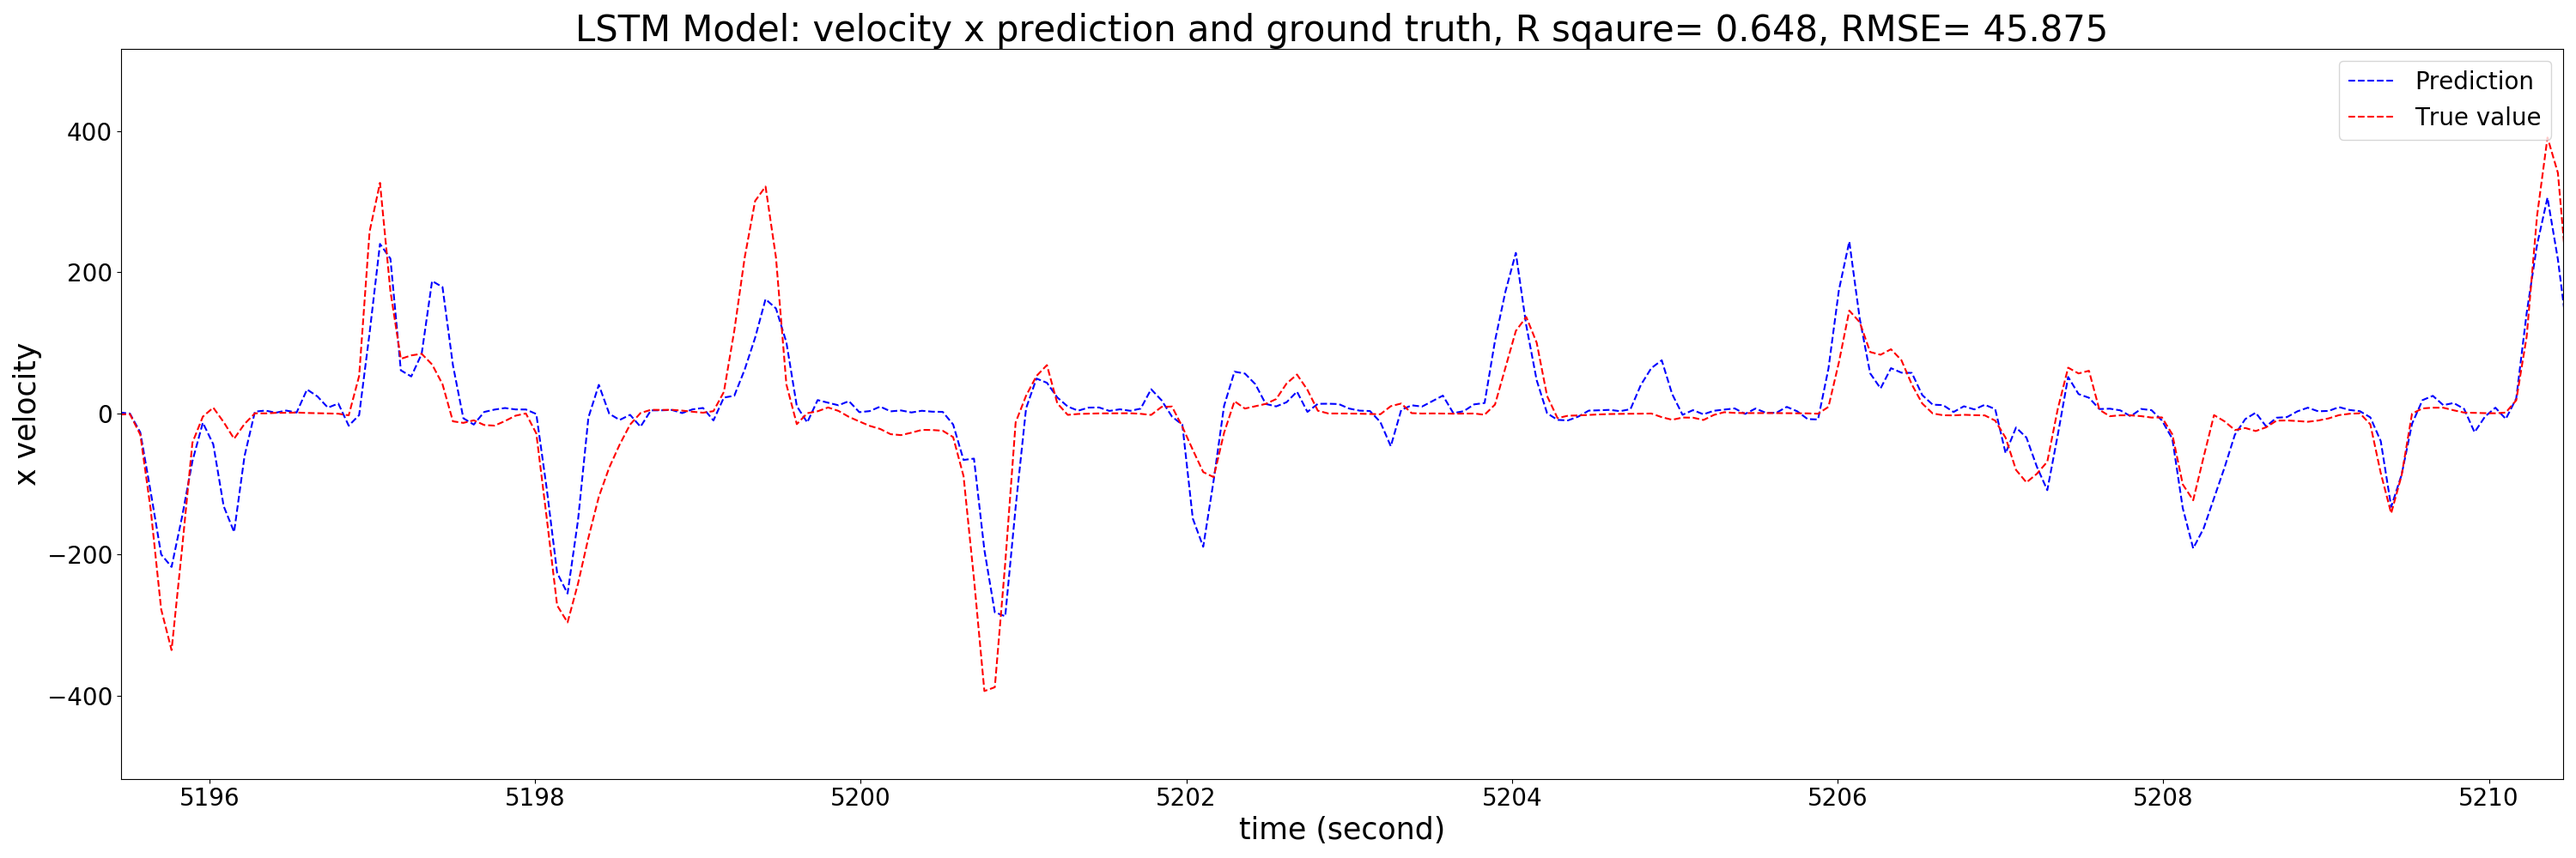
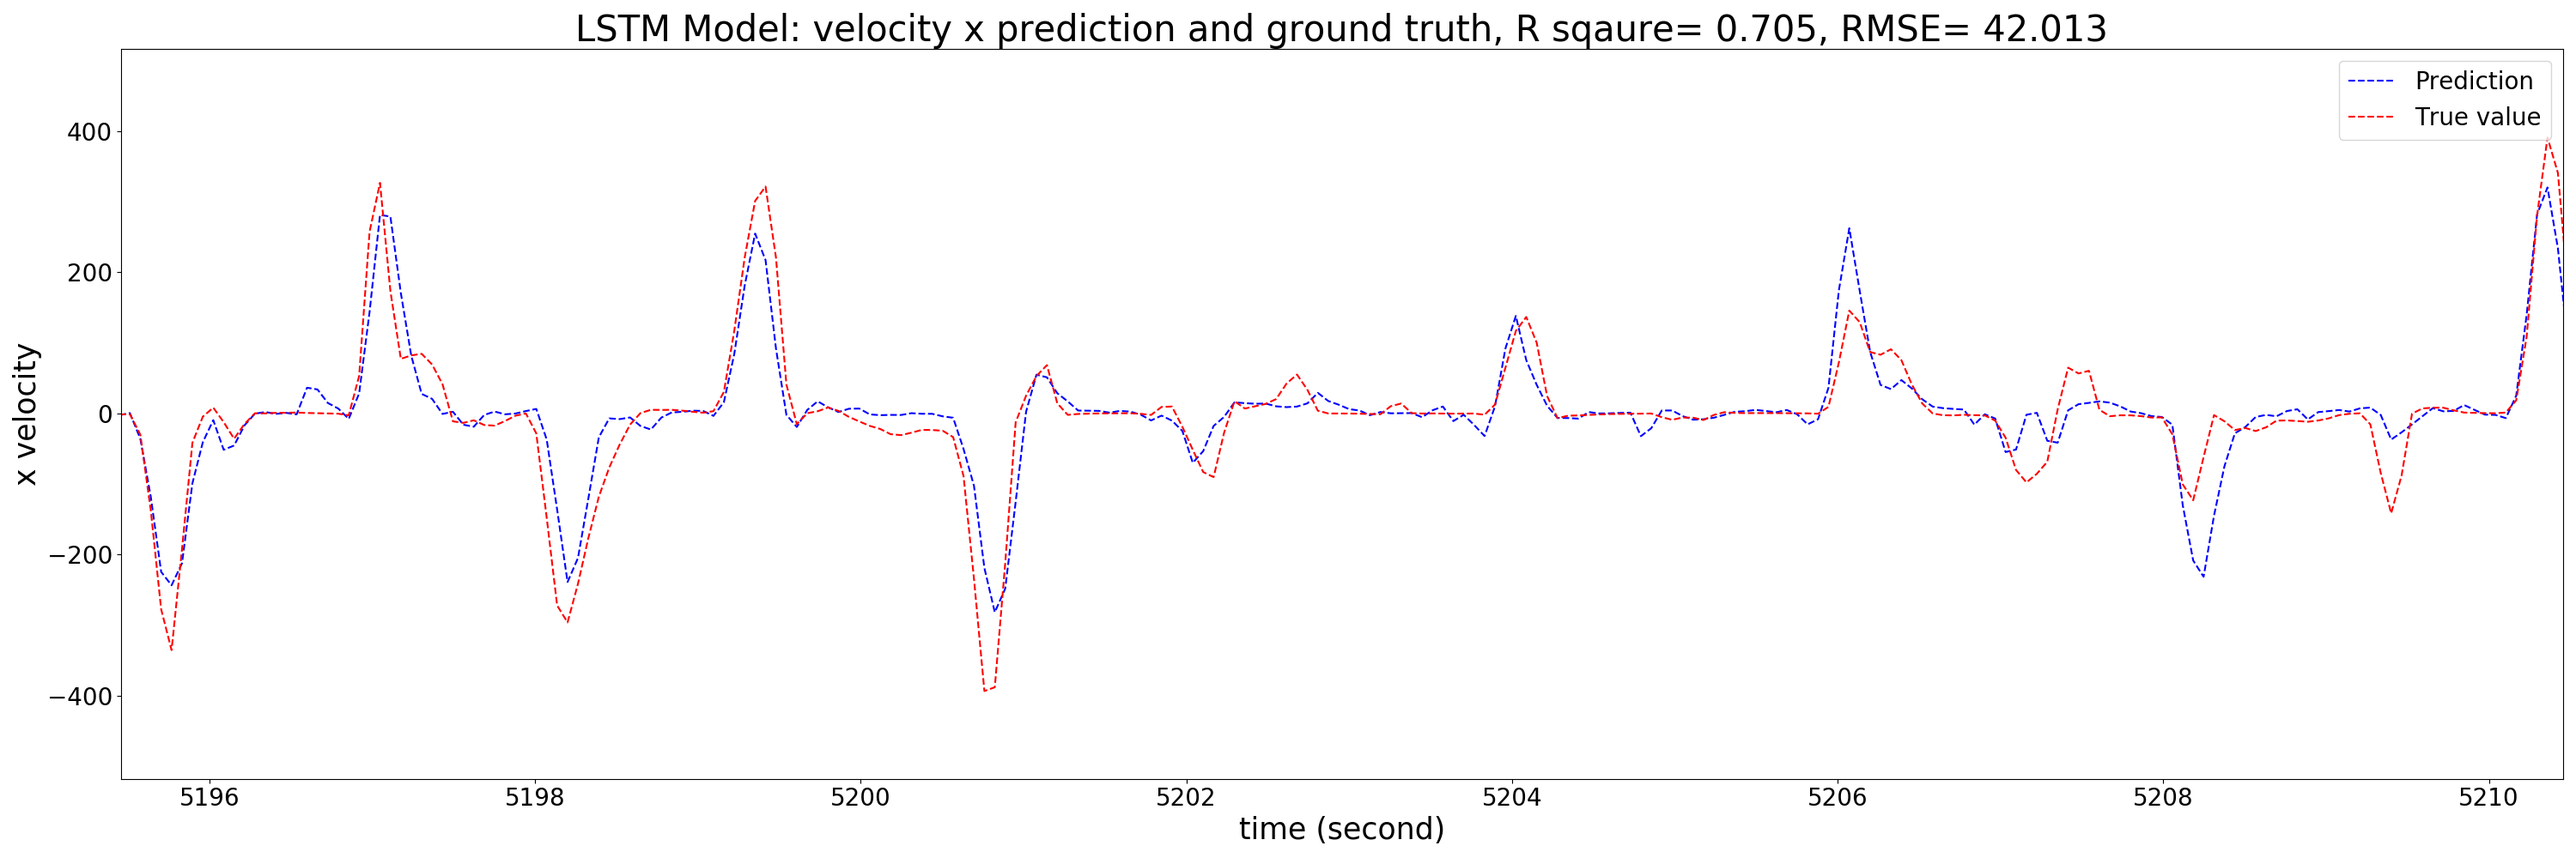
new plots

diff --git a/Python_code/Pytorch/Phase-of-Firing/PoF_LSTM.py b/Python_code/Pytorch/Phase-of-Firing/PoF_LSTM.py
@@ -406,7 +406,7 @@ new_testing_x=new_testing_x[:,:]
 print('first testing data time: ', time_stamp_64ms[testing_data_index], '\n')
 print('Real input features: ', new_training_x.size(1) )
 # Neural Network
-batch_size = 16
+batch_size = 32
 learning_rate=1e-5
 max_epoch=MAX_epoch
 
